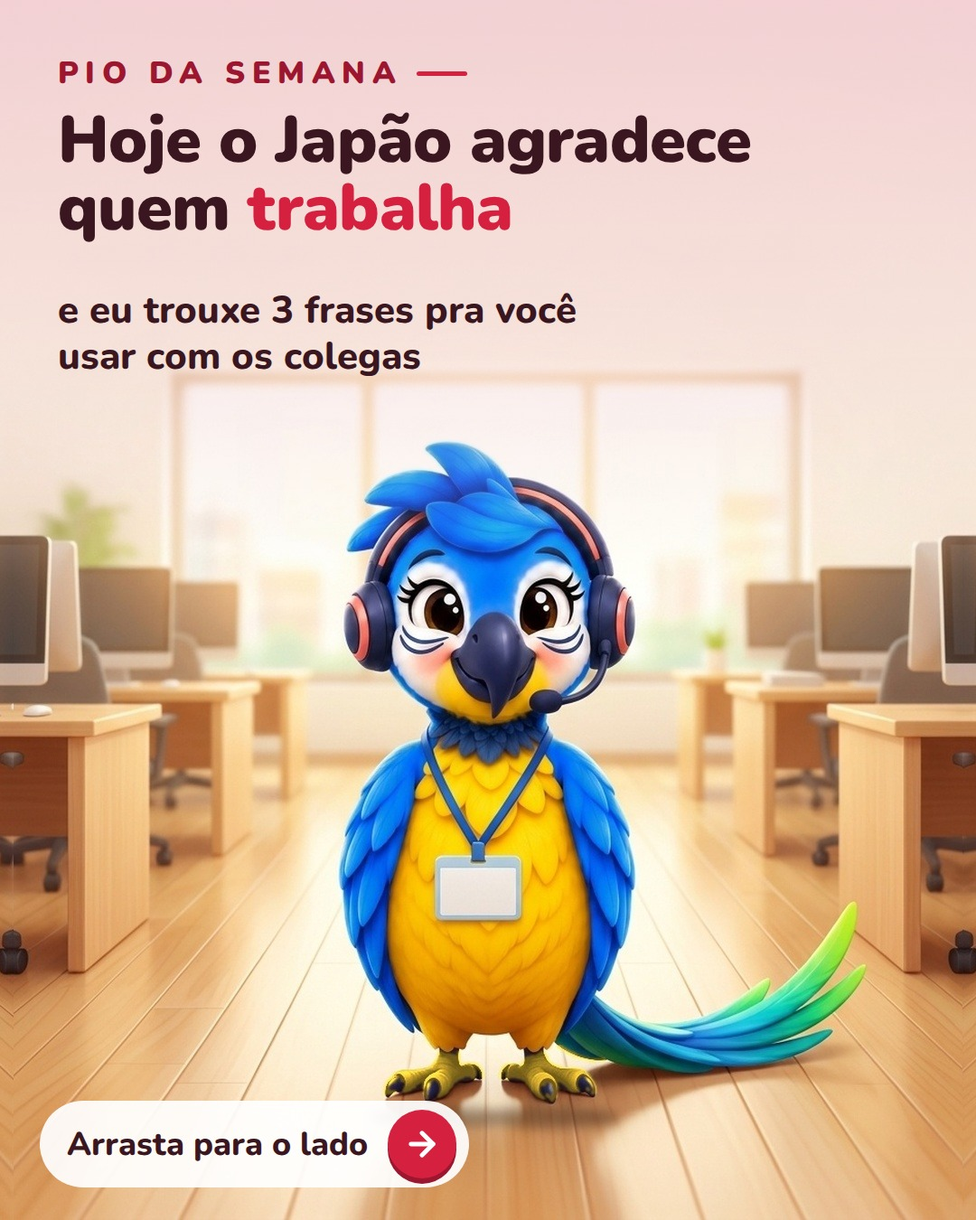
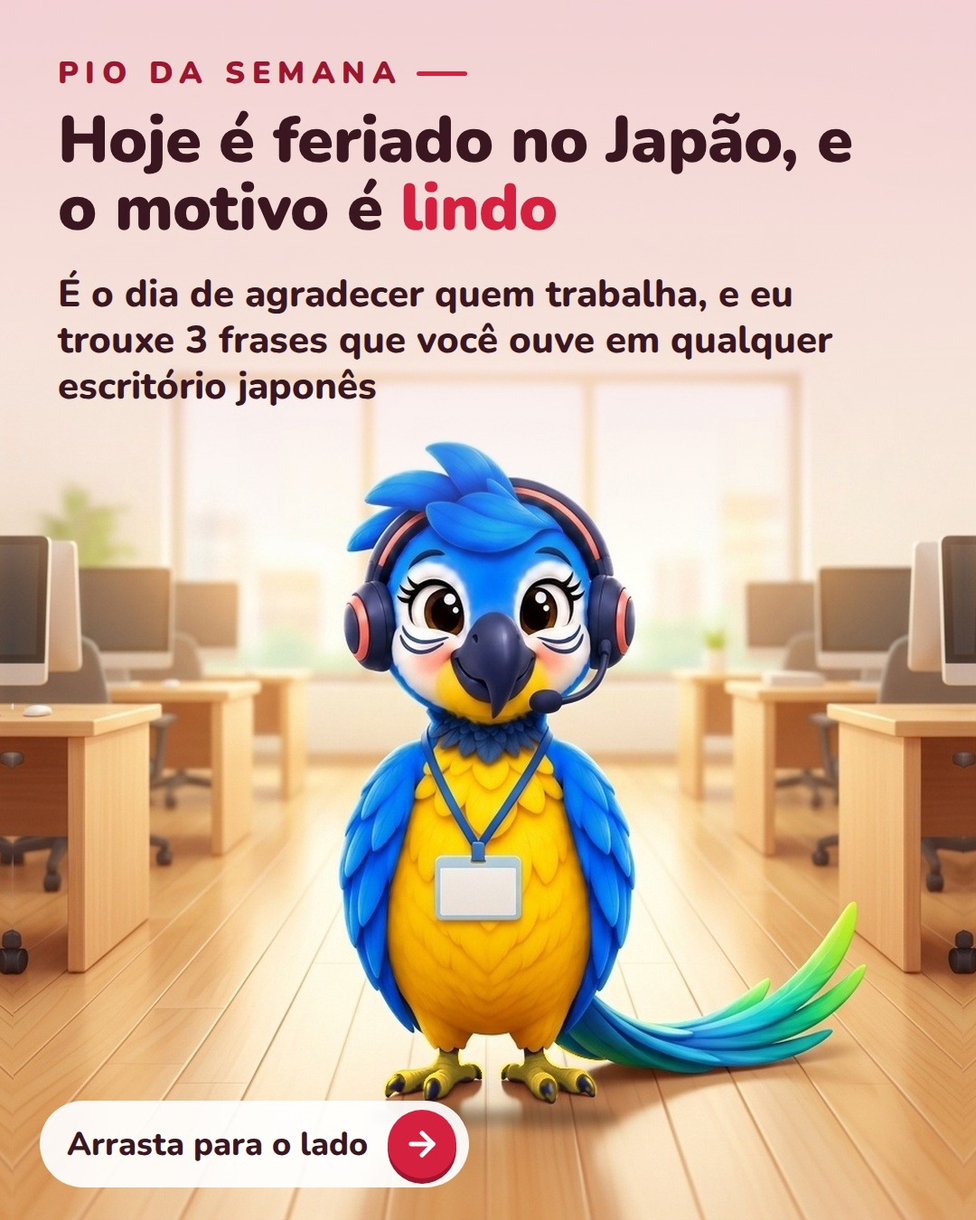
fix(arte): Pio da Semana japonês com texto coeso e balão ancorado na Rara

Changed region(s): [[0.0611, 0.2178, 0.8556, 0.3422], [0.0917, 0.0933, 0.8861, 0.1867]]

diff --git a/semana_23_29_feed/html/pio-japones-4.html b/semana_23_29_feed/html/pio-japones-4.html
@@ -14,11 +14,15 @@ h1{position:absolute;left:64px;top:118px;width:940px;font-weight:900;font-size:7
 .pill{position:absolute;left:44px;bottom:36px;z-index:6;display:flex;gap:22px;align-items:center;font-weight:800;font-size:36px;background:rgba(255,255,255,.92);padding:10px 14px 10px 30px;border-radius:999px;color:#3A1620}
 .btn{width:76px;height:76px;border-radius:50%;background:#D6203F;display:flex;align-items:center;justify-content:center;box-shadow:0 6px 0 #9C1630}
 .btn svg{width:42px;height:42px;stroke:#fff;fill:none;stroke-width:2.8;stroke-linecap:round;stroke-linejoin:round}
-.bal{position:absolute;left:64px;top:108px;width:900px;z-index:6;background:#fff;border-radius:44px;border-bottom:14px solid #F2C9D2;padding:18px 40px 20px;box-shadow:0 14px 30px rgba(120,40,60,.18)}
+.bal{position:absolute;left:90px;width:900px;z-index:6;background:transparent;padding:26px 56px 30px;filter:drop-shadow(0 16px 22px rgba(120,40,60,.22));--rad:58px 124px 66px 132px / 92px 58px 112px 62px}
+.bal.r0{transform:rotate(-1.6deg)}.bal.r1{transform:rotate(1.3deg)}
+.bal::before{content:'';position:absolute;inset:0;top:10px;border-radius:var(--rad);background:#F2C9D2;z-index:-2}
+.bal::after{content:'';position:absolute;inset:0;border-radius:var(--rad);background:#fff;z-index:-1}
+.tail{position:absolute;bottom:-88px;width:112px;height:100px;z-index:-1;overflow:visible}
 .row{display:block}
 .jp{font-family:'JP','Nunito';font-weight:900;font-size:70px;line-height:1.12;white-space:nowrap}
 .ro{font-weight:900;font-size:40px;line-height:1.1;color:#D6203F;white-space:nowrap}
 .tr{font-weight:900;font-size:44px;line-height:1.15;margin-top:2px}
 .ap{font-weight:700;font-size:40px;line-height:1.2;margin-top:6px;color:#6B3A48}
 .punch{position:absolute;left:64px;top:122px;width:940px;font-family:'Mochiy';font-size:64px;line-height:1.16;color:#9C1630;z-index:5;text-transform:uppercase}
-</style></head><body><div id="post"><img class="bg" src="file:///home/rodrigo/.openclaw/workspace/arara_social/semana_23_29_feed/gen/seg_s4_base.jpg"><div class="wash"></div><svg id="tl" style="position:absolute;left:0;top:0;z-index:7" width="1080" height="1350"><polygon id="pg" fill="#fff"/></svg><script>addEventListener("load",()=>document.fonts.ready.then(()=>{const b=document.querySelector(".bal");const r=b.getBoundingClientRect();const [tx,ty]=[495,492];const y=r.bottom-6;document.getElementById("pg").setAttribute("points",(tx-48)+","+y+" "+(tx+48)+","+y+" "+tx+","+ty)}))</script><div class="lbl">Pio da Semana</div><div class="bal" data-box="bal" style="top:100px"><div class="row"><div class="jp">お先に失礼します</div><div class="ro">osaki ni shitsurei shimasu</div></div><div class="tr">com licença, vou sair antes</div><div class="ap">pra sair do escritório sem parecer que fugiu hahaha</div></div></div></body></html>
+</style></head><body><div id="post"><img class="bg" src="file:///home/rodrigo/.openclaw/workspace/arara_social/semana_23_29_feed/gen/seg_s4_base.jpg"><div class="wash"></div><div class="lbl">Pio da Semana</div><div class="bal r0" data-box="bal"><div class="row"><div class="jp">お先に失礼します</div><div class="ro">osaki ni shitsurei shimasu</div></div><div class="tr">Com licença, vou sair antes</div><div class="ap">Pra sair sem parecer que fugiu, hahaha</div><svg class="tail" viewBox="0 0 112 100"><path d="M8 0 C 8 44 40 80 106 96 C 66 70 62 34 94 0 Z" fill="#fff"/></svg></div></div><script>addEventListener("load",()=>document.fonts.ready.then(()=>{const b=document.querySelector(".bal");const [hx,cy]=[495,502];const top0=112;const avail=(cy-136)-top0;let k=1;const base=[...b.querySelectorAll(".jp,.ro,.tr,.ap")].map(e=>[e,parseFloat(getComputedStyle(e).fontSize)]);function fit(){base.forEach(([e,f])=>e.style.fontSize=(f*k)+"px");b.style.top=((cy-136)-b.offsetHeight)+"px"}fit();while(b.offsetHeight>avail&&k>0.8){k-=0.04;fit()}const flip=0;const t=b.querySelector(".tail");const left=flip?(hx-70-90):(hx-216);t.style.left=Math.max(30,Math.min(700,left))+"px";if(flip)t.style.transform="scaleX(-1)"}))</script></body></html>

diff --git a/semana_23_29_feed/html/pio-japones-3.html b/semana_23_29_feed/html/pio-japones-3.html
@@ -14,11 +14,15 @@ h1{position:absolute;left:64px;top:118px;width:940px;font-weight:900;font-size:7
 .pill{position:absolute;left:44px;bottom:36px;z-index:6;display:flex;gap:22px;align-items:center;font-weight:800;font-size:36px;background:rgba(255,255,255,.92);padding:10px 14px 10px 30px;border-radius:999px;color:#3A1620}
 .btn{width:76px;height:76px;border-radius:50%;background:#D6203F;display:flex;align-items:center;justify-content:center;box-shadow:0 6px 0 #9C1630}
 .btn svg{width:42px;height:42px;stroke:#fff;fill:none;stroke-width:2.8;stroke-linecap:round;stroke-linejoin:round}
-.bal{position:absolute;left:64px;top:108px;width:900px;z-index:6;background:#fff;border-radius:44px;border-bottom:14px solid #F2C9D2;padding:18px 40px 20px;box-shadow:0 14px 30px rgba(120,40,60,.18)}
+.bal{position:absolute;left:90px;width:900px;z-index:6;background:transparent;padding:26px 56px 30px;filter:drop-shadow(0 16px 22px rgba(120,40,60,.22));--rad:58px 124px 66px 132px / 92px 58px 112px 62px}
+.bal.r0{transform:rotate(-1.6deg)}.bal.r1{transform:rotate(1.3deg)}
+.bal::before{content:'';position:absolute;inset:0;top:10px;border-radius:var(--rad);background:#F2C9D2;z-index:-2}
+.bal::after{content:'';position:absolute;inset:0;border-radius:var(--rad);background:#fff;z-index:-1}
+.tail{position:absolute;bottom:-88px;width:112px;height:100px;z-index:-1;overflow:visible}
 .row{display:block}
 .jp{font-family:'JP','Nunito';font-weight:900;font-size:70px;line-height:1.12;white-space:nowrap}
 .ro{font-weight:900;font-size:40px;line-height:1.1;color:#D6203F;white-space:nowrap}
 .tr{font-weight:900;font-size:44px;line-height:1.15;margin-top:2px}
 .ap{font-weight:700;font-size:40px;line-height:1.2;margin-top:6px;color:#6B3A48}
 .punch{position:absolute;left:64px;top:122px;width:940px;font-family:'Mochiy';font-size:64px;line-height:1.16;color:#9C1630;z-index:5;text-transform:uppercase}
-</style></head><body><div id="post"><img class="bg" src="file:///home/rodrigo/.openclaw/workspace/arara_social/semana_23_29_feed/gen/seg_s3_base.jpg"><div class="wash"></div><svg id="tl" style="position:absolute;left:0;top:0;z-index:7" width="1080" height="1350"><polygon id="pg" fill="#fff"/></svg><script>addEventListener("load",()=>document.fonts.ready.then(()=>{const b=document.querySelector(".bal");const r=b.getBoundingClientRect();const [tx,ty]=[490,485];const y=r.bottom-6;document.getElementById("pg").setAttribute("points",(tx-48)+","+y+" "+(tx+48)+","+y+" "+tx+","+ty)}))</script><div class="lbl">Pio da Semana</div><div class="bal" data-box="bal" style="top:100px"><div class="row"><div class="jp">よろしくお願いします</div><div class="ro">yoroshiku onegaishimasu</div></div><div class="tr">conto com você</div><div class="ap">a gente diz no começo de um projeto ou numa apresentação</div></div></div></body></html>
+</style></head><body><div id="post"><img class="bg" src="file:///home/rodrigo/.openclaw/workspace/arara_social/semana_23_29_feed/gen/seg_s3_base.jpg"><div class="wash"></div><div class="lbl">Pio da Semana</div><div class="bal r1" data-box="bal"><div class="row"><div class="jp">よろしくお願いします</div><div class="ro">yoroshiku onegaishimasu</div></div><div class="tr">Conto com você</div><div class="ap">A gente diz no começo de um projeto</div><svg class="tail" viewBox="0 0 112 100"><path d="M8 0 C 8 44 40 80 106 96 C 66 70 62 34 94 0 Z" fill="#fff"/></svg></div></div><script>addEventListener("load",()=>document.fonts.ready.then(()=>{const b=document.querySelector(".bal");const [hx,cy]=[490,495];const top0=112;const avail=(cy-136)-top0;let k=1;const base=[...b.querySelectorAll(".jp,.ro,.tr,.ap")].map(e=>[e,parseFloat(getComputedStyle(e).fontSize)]);function fit(){base.forEach(([e,f])=>e.style.fontSize=(f*k)+"px");b.style.top=((cy-136)-b.offsetHeight)+"px"}fit();while(b.offsetHeight>avail&&k>0.8){k-=0.04;fit()}const flip=1;const t=b.querySelector(".tail");const left=flip?(hx-70-90):(hx-216);t.style.left=Math.max(30,Math.min(700,left))+"px";if(flip)t.style.transform="scaleX(-1)"}))</script></body></html>

diff --git a/semana_23_29_feed/html/pio-japones-2.html b/semana_23_29_feed/html/pio-japones-2.html
@@ -14,11 +14,15 @@ h1{position:absolute;left:64px;top:118px;width:940px;font-weight:900;font-size:7
 .pill{position:absolute;left:44px;bottom:36px;z-index:6;display:flex;gap:22px;align-items:center;font-weight:800;font-size:36px;background:rgba(255,255,255,.92);padding:10px 14px 10px 30px;border-radius:999px;color:#3A1620}
 .btn{width:76px;height:76px;border-radius:50%;background:#D6203F;display:flex;align-items:center;justify-content:center;box-shadow:0 6px 0 #9C1630}
 .btn svg{width:42px;height:42px;stroke:#fff;fill:none;stroke-width:2.8;stroke-linecap:round;stroke-linejoin:round}
-.bal{position:absolute;left:64px;top:108px;width:900px;z-index:6;background:#fff;border-radius:44px;border-bottom:14px solid #F2C9D2;padding:18px 40px 20px;box-shadow:0 14px 30px rgba(120,40,60,.18)}
+.bal{position:absolute;left:90px;width:900px;z-index:6;background:transparent;padding:26px 56px 30px;filter:drop-shadow(0 16px 22px rgba(120,40,60,.22));--rad:58px 124px 66px 132px / 92px 58px 112px 62px}
+.bal.r0{transform:rotate(-1.6deg)}.bal.r1{transform:rotate(1.3deg)}
+.bal::before{content:'';position:absolute;inset:0;top:10px;border-radius:var(--rad);background:#F2C9D2;z-index:-2}
+.bal::after{content:'';position:absolute;inset:0;border-radius:var(--rad);background:#fff;z-index:-1}
+.tail{position:absolute;bottom:-88px;width:112px;height:100px;z-index:-1;overflow:visible}
 .row{display:block}
 .jp{font-family:'JP','Nunito';font-weight:900;font-size:70px;line-height:1.12;white-space:nowrap}
 .ro{font-weight:900;font-size:40px;line-height:1.1;color:#D6203F;white-space:nowrap}
 .tr{font-weight:900;font-size:44px;line-height:1.15;margin-top:2px}
 .ap{font-weight:700;font-size:40px;line-height:1.2;margin-top:6px;color:#6B3A48}
 .punch{position:absolute;left:64px;top:122px;width:940px;font-family:'Mochiy';font-size:64px;line-height:1.16;color:#9C1630;z-index:5;text-transform:uppercase}
-</style></head><body><div id="post"><img class="bg" src="file:///home/rodrigo/.openclaw/workspace/arara_social/semana_23_29_feed/gen/seg_s2_base.jpg"><div class="wash"></div><svg id="tl" style="position:absolute;left:0;top:0;z-index:7" width="1080" height="1350"><polygon id="pg" fill="#fff"/></svg><script>addEventListener("load",()=>document.fonts.ready.then(()=>{const b=document.querySelector(".bal");const r=b.getBoundingClientRect();const [tx,ty]=[368,489];const y=r.bottom-6;document.getElementById("pg").setAttribute("points",(tx-48)+","+y+" "+(tx+48)+","+y+" "+tx+","+ty)}))</script><div class="lbl">Pio da Semana</div><div class="bal" data-box="bal" style="top:100px"><div class="row"><div class="jp">お疲れ様です</div><div class="ro">otsukaresama desu</div></div><div class="tr">obrigado pelo seu esforço</div><div class="ap">serve pra cumprimentar colega e pra fechar o dia</div></div></div></body></html>
+</style></head><body><div id="post"><img class="bg" src="file:///home/rodrigo/.openclaw/workspace/arara_social/semana_23_29_feed/gen/seg_s2_base.jpg"><div class="wash"></div><div class="lbl">Pio da Semana</div><div class="bal r0" data-box="bal"><div class="row"><div class="jp">お疲れ様です</div><div class="ro">otsukaresama desu</div></div><div class="tr">Obrigado pelo seu esforço</div><div class="ap">Serve pra cumprimentar e pra fechar o dia</div><svg class="tail" viewBox="0 0 112 100"><path d="M8 0 C 8 44 40 80 106 96 C 66 70 62 34 94 0 Z" fill="#fff"/></svg></div></div><script>addEventListener("load",()=>document.fonts.ready.then(()=>{const b=document.querySelector(".bal");const [hx,cy]=[368,499];const top0=112;const avail=(cy-136)-top0;let k=1;const base=[...b.querySelectorAll(".jp,.ro,.tr,.ap")].map(e=>[e,parseFloat(getComputedStyle(e).fontSize)]);function fit(){base.forEach(([e,f])=>e.style.fontSize=(f*k)+"px");b.style.top=((cy-136)-b.offsetHeight)+"px"}fit();while(b.offsetHeight>avail&&k>0.8){k-=0.04;fit()}const flip=0;const t=b.querySelector(".tail");const left=flip?(hx-70-90):(hx-216);t.style.left=Math.max(30,Math.min(700,left))+"px";if(flip)t.style.transform="scaleX(-1)"}))</script></body></html>

diff --git a/semana_23_29_feed/html/pio-japones-1.html b/semana_23_29_feed/html/pio-japones-1.html
@@ -14,11 +14,15 @@ h1{position:absolute;left:64px;top:118px;width:940px;font-weight:900;font-size:7
 .pill{position:absolute;left:44px;bottom:36px;z-index:6;display:flex;gap:22px;align-items:center;font-weight:800;font-size:36px;background:rgba(255,255,255,.92);padding:10px 14px 10px 30px;border-radius:999px;color:#3A1620}
 .btn{width:76px;height:76px;border-radius:50%;background:#D6203F;display:flex;align-items:center;justify-content:center;box-shadow:0 6px 0 #9C1630}
 .btn svg{width:42px;height:42px;stroke:#fff;fill:none;stroke-width:2.8;stroke-linecap:round;stroke-linejoin:round}
-.bal{position:absolute;left:64px;top:108px;width:900px;z-index:6;background:#fff;border-radius:44px;border-bottom:14px solid #F2C9D2;padding:18px 40px 20px;box-shadow:0 14px 30px rgba(120,40,60,.18)}
+.bal{position:absolute;left:90px;width:900px;z-index:6;background:transparent;padding:26px 56px 30px;filter:drop-shadow(0 16px 22px rgba(120,40,60,.22));--rad:58px 124px 66px 132px / 92px 58px 112px 62px}
+.bal.r0{transform:rotate(-1.6deg)}.bal.r1{transform:rotate(1.3deg)}
+.bal::before{content:'';position:absolute;inset:0;top:10px;border-radius:var(--rad);background:#F2C9D2;z-index:-2}
+.bal::after{content:'';position:absolute;inset:0;border-radius:var(--rad);background:#fff;z-index:-1}
+.tail{position:absolute;bottom:-88px;width:112px;height:100px;z-index:-1;overflow:visible}
 .row{display:block}
 .jp{font-family:'JP','Nunito';font-weight:900;font-size:70px;line-height:1.12;white-space:nowrap}
 .ro{font-weight:900;font-size:40px;line-height:1.1;color:#D6203F;white-space:nowrap}
 .tr{font-weight:900;font-size:44px;line-height:1.15;margin-top:2px}
 .ap{font-weight:700;font-size:40px;line-height:1.2;margin-top:6px;color:#6B3A48}
 .punch{position:absolute;left:64px;top:122px;width:940px;font-family:'Mochiy';font-size:64px;line-height:1.16;color:#9C1630;z-index:5;text-transform:uppercase}
-</style></head><body><div id="post"><img class="bg" src="file:///home/rodrigo/.openclaw/workspace/arara_social/semana_23_29_feed/gen/seg_s1_base.jpg"><div class="wash"></div><div class="lbl">Pio da Semana</div><h1>Hoje o Japão agradece quem <span class="hl">trabalha</span></h1><div class="sub" data-box="sub" style="top:318px;width:900px">e eu trouxe 3 frases pra você<br>usar com os colegas</div><div class="pill">Arrasta para o lado<div class="btn"><svg viewBox="0 0 24 24"><path d="M5 12h14"/><path d="m12 5 7 7-7 7"/></svg></div></div></div></body></html>
+</style></head><body><div id="post"><img class="bg" src="file:///home/rodrigo/.openclaw/workspace/arara_social/semana_23_29_feed/gen/seg_s1_base.jpg"><div class="wash"></div><div class="lbl">Pio da Semana</div><h1>Hoje é feriado no Japão, e o motivo é <span class="hl">lindo</span></h1><div class="sub" data-box="sub" style="top:300px;width:940px">É o dia de agradecer quem trabalha, e eu trouxe 3 frases que você ouve em qualquer escritório japonês</div><div class="pill">Arrasta para o lado<div class="btn"><svg viewBox="0 0 24 24"><path d="M5 12h14"/><path d="m12 5 7 7-7 7"/></svg></div></div></div></body></html>

diff --git a/semana_23_29_feed/html/pio-japones-5.html b/semana_23_29_feed/html/pio-japones-5.html
@@ -14,11 +14,15 @@ h1{position:absolute;left:64px;top:118px;width:940px;font-weight:900;font-size:7
 .pill{position:absolute;left:44px;bottom:36px;z-index:6;display:flex;gap:22px;align-items:center;font-weight:800;font-size:36px;background:rgba(255,255,255,.92);padding:10px 14px 10px 30px;border-radius:999px;color:#3A1620}
 .btn{width:76px;height:76px;border-radius:50%;background:#D6203F;display:flex;align-items:center;justify-content:center;box-shadow:0 6px 0 #9C1630}
 .btn svg{width:42px;height:42px;stroke:#fff;fill:none;stroke-width:2.8;stroke-linecap:round;stroke-linejoin:round}
-.bal{position:absolute;left:64px;top:108px;width:900px;z-index:6;background:#fff;border-radius:44px;border-bottom:14px solid #F2C9D2;padding:18px 40px 20px;box-shadow:0 14px 30px rgba(120,40,60,.18)}
+.bal{position:absolute;left:90px;width:900px;z-index:6;background:transparent;padding:26px 56px 30px;filter:drop-shadow(0 16px 22px rgba(120,40,60,.22));--rad:58px 124px 66px 132px / 92px 58px 112px 62px}
+.bal.r0{transform:rotate(-1.6deg)}.bal.r1{transform:rotate(1.3deg)}
+.bal::before{content:'';position:absolute;inset:0;top:10px;border-radius:var(--rad);background:#F2C9D2;z-index:-2}
+.bal::after{content:'';position:absolute;inset:0;border-radius:var(--rad);background:#fff;z-index:-1}
+.tail{position:absolute;bottom:-88px;width:112px;height:100px;z-index:-1;overflow:visible}
 .row{display:block}
 .jp{font-family:'JP','Nunito';font-weight:900;font-size:70px;line-height:1.12;white-space:nowrap}
 .ro{font-weight:900;font-size:40px;line-height:1.1;color:#D6203F;white-space:nowrap}
 .tr{font-weight:900;font-size:44px;line-height:1.15;margin-top:2px}
 .ap{font-weight:700;font-size:40px;line-height:1.2;margin-top:6px;color:#6B3A48}
 .punch{position:absolute;left:64px;top:122px;width:940px;font-family:'Mochiy';font-size:64px;line-height:1.16;color:#9C1630;z-index:5;text-transform:uppercase}
-</style></head><body><div id="post"><img class="bg" src="file:///home/rodrigo/.openclaw/workspace/arara_social/semana_23_29_feed/gen/seg_s5_base.jpg"><div class="wash"></div><div class="lbl">Pio da Semana</div><div class="punch" data-box="punch">Salva pra usar no <span style="color:#D6203F">primeiro dia</span> de trabalho</div><div class="sub" data-box="sub" style="top:360px;width:900px">e manda pro colega que sonha com o Japão</div></div></body></html>
+</style></head><body><div id="post"><img class="bg" src="file:///home/rodrigo/.openclaw/workspace/arara_social/semana_23_29_feed/gen/seg_s5_base.jpg"><div class="wash"></div><div class="lbl">Pio da Semana</div><div class="punch" data-box="punch">Salva pra usar no seu <span style="color:#D6203F">primeiro dia</span> de trabalho</div><div class="sub" data-box="sub" style="top:360px;width:900px">e manda pro colega que sonha em conhecer o Japão</div></div></body></html>

diff --git a/semana_23_29_feed/html/build_seg.py b/semana_23_29_feed/html/build_seg.py
@@ -19,7 +19,11 @@ h1{{position:absolute;left:64px;top:118px;width:940px;font-weight:900;font-size:
 .pill{{position:absolute;left:44px;bottom:36px;z-index:6;display:flex;gap:22px;align-items:center;font-weight:800;font-size:36px;background:rgba(255,255,255,.92);padding:10px 14px 10px 30px;border-radius:999px;color:#3A1620}}
 .btn{{width:76px;height:76px;border-radius:50%;background:#D6203F;display:flex;align-items:center;justify-content:center;box-shadow:0 6px 0 #9C1630}}
 .btn svg{{width:42px;height:42px;stroke:#fff;fill:none;stroke-width:2.8;stroke-linecap:round;stroke-linejoin:round}}
-.bal{{position:absolute;left:64px;top:108px;width:900px;z-index:6;background:#fff;border-radius:44px;border-bottom:14px solid #F2C9D2;padding:18px 40px 20px;box-shadow:0 14px 30px rgba(120,40,60,.18)}}
+.bal{{position:absolute;left:90px;width:900px;z-index:6;background:transparent;padding:26px 56px 30px;filter:drop-shadow(0 16px 22px rgba(120,40,60,.22));--rad:58px 124px 66px 132px / 92px 58px 112px 62px}}
+.bal.r0{{transform:rotate(-1.6deg)}}.bal.r1{{transform:rotate(1.3deg)}}
+.bal::before{{content:'';position:absolute;inset:0;top:10px;border-radius:var(--rad);background:#F2C9D2;z-index:-2}}
+.bal::after{{content:'';position:absolute;inset:0;border-radius:var(--rad);background:#fff;z-index:-1}}
+.tail{{position:absolute;bottom:-88px;width:112px;height:100px;z-index:-1;overflow:visible}}
 .row{{display:block}}
 .jp{{font-family:'JP','Nunito';font-weight:900;font-size:70px;line-height:1.12;white-space:nowrap}}
 .ro{{font-weight:900;font-size:40px;line-height:1.1;color:#D6203F;white-space:nowrap}}
@@ -28,21 +32,22 @@ h1{{position:absolute;left:64px;top:118px;width:940px;font-weight:900;font-size:
 .punch{{position:absolute;left:64px;top:122px;width:940px;font-family:'Mochiy';font-size:64px;line-height:1.16;color:#9C1630;z-index:5;text-transform:uppercase}}
 """
 ARR='<svg viewBox="0 0 24 24"><path d="M5 12h14"/><path d="m12 5 7 7-7 7"/></svg>'
-def page(body, bg, tail=None):
-    t=''
-    if tail: t='<svg id="tl" style="position:absolute;left:0;top:0;z-index:7" width="1080" height="1350"><polygon id="pg" fill="#fff"/></svg><script>addEventListener("load",()=>document.fonts.ready.then(()=>{const b=document.querySelector(".bal");const r=b.getBoundingClientRect();const [tx,ty]=%s;const y=r.bottom-6;document.getElementById("pg").setAttribute("points",(tx-48)+","+y+" "+(tx+48)+","+y+" "+tx+","+ty)}))</script>' % tail
-    return f'<!doctype html><html><head><meta charset="utf-8"><style>{CSS}</style></head><body><div id="post"><img class="bg" src="file://{G}{bg}"><div class="wash"></div>{t}{body}</div></body></html>'
+def page(body, bg, tail=None, idx=0):
+    sc=''
+    if tail:
+        sc='<script>addEventListener("load",()=>document.fonts.ready.then(()=>{const b=document.querySelector(".bal");const [hx,cy]=%s;const top0=112;const avail=(cy-136)-top0;let k=1;const base=[...b.querySelectorAll(".jp,.ro,.tr,.ap")].map(e=>[e,parseFloat(getComputedStyle(e).fontSize)]);function fit(){base.forEach(([e,f])=>e.style.fontSize=(f*k)+"px");b.style.top=((cy-136)-b.offsetHeight)+"px"}fit();while(b.offsetHeight>avail&&k>0.8){k-=0.04;fit()}const flip=%d;const t=b.querySelector(".tail");const left=flip?(hx-70-90):(hx-216);t.style.left=Math.max(30,Math.min(700,left))+"px";if(flip)t.style.transform="scaleX(-1)"}))</script>' % (tail, idx%2)
+    return f'<!doctype html><html><head><meta charset="utf-8"><style>{CSS}</style></head><body><div id="post"><img class="bg" src="file://{G}{bg}"><div class="wash"></div>{body}</div>{sc}</body></html>'
 slides=[]
 slides.append(('pio-japones-1','seg_s1_base.jpg',None,
- '<div class="lbl">Pio da Semana</div><h1>Hoje o Japão agradece quem <span class="hl">trabalha</span></h1><div class="sub" data-box="sub" style="top:318px;width:900px">e eu trouxe 3 frases pra você<br>usar com os colegas</div><div class="pill">Arrasta para o lado<div class="btn">'+ARR+'</div></div>'))
+ '<div class="lbl">Pio da Semana</div><h1>Hoje é feriado no Japão, e o motivo é <span class="hl">lindo</span></h1><div class="sub" data-box="sub" style="top:300px;width:940px">É o dia de agradecer quem trabalha, e eu trouxe 3 frases que você ouve em qualquer escritório japonês</div><div class="pill">Arrasta para o lado<div class="btn">'+ARR+'</div></div>'))
 def phrase(n,bg,jp,ro,tr,ap,tipx):
-    bal=f'<div class="lbl">Pio da Semana</div><div class="bal" data-box="bal" style="top:100px"><div class="row"><div class="jp">{jp}</div><div class="ro">{ro}</div></div><div class="tr">{tr}</div><div class="ap">{ap}</div></div>'
+    bal=f'<div class="lbl">Pio da Semana</div><div class="bal r{n%2}" data-box="bal"><div class="row"><div class="jp">{jp}</div><div class="ro">{ro}</div></div><div class="tr">{tr}</div><div class="ap">{ap}</div><svg class="tail" viewBox="0 0 112 100"><path d="M8 0 C 8 44 40 80 106 96 C 66 70 62 34 94 0 Z" fill="#fff"/></svg></div>'
     return (f'pio-japones-{n}',bg,tipx,bal)
-slides.append(phrase(2,'seg_s2_base.jpg','お疲れ様です','otsukaresama desu','obrigado pelo seu esforço','serve pra cumprimentar colega e pra fechar o dia',None))
-slides.append(phrase(3,'seg_s3_base.jpg','よろしくお願いします','yoroshiku onegaishimasu','conto com você','a gente diz no começo de um projeto ou numa apresentação',None))
-slides.append(phrase(4,'seg_s4_base.jpg','お先に失礼します','osaki ni shitsurei shimasu','com licença, vou sair antes','pra sair do escritório sem parecer que fugiu hahaha',None))
+slides.append(phrase(2,'seg_s2_base.jpg','お疲れ様です','otsukaresama desu','Obrigado pelo seu esforço','Serve pra cumprimentar e pra fechar o dia',None))
+slides.append(phrase(3,'seg_s3_base.jpg','よろしくお願いします','yoroshiku onegaishimasu','Conto com você','A gente diz no começo de um projeto',None))
+slides.append(phrase(4,'seg_s4_base.jpg','お先に失礼します','osaki ni shitsurei shimasu','Com licença, vou sair antes','Pra sair sem parecer que fugiu, hahaha',None))
 slides.append(('pio-japones-5','seg_s5_base.jpg',None,
- '<div class="lbl">Pio da Semana</div><div class="punch" data-box="punch">Salva pra usar no <span style="color:#D6203F">primeiro dia</span> de trabalho</div><div class="sub" data-box="sub" style="top:360px;width:900px">e manda pro colega que sonha com o Japão</div>'))
+ '<div class="lbl">Pio da Semana</div><div class="punch" data-box="punch">Salva pra usar no seu <span style="color:#D6203F">primeiro dia</span> de trabalho</div><div class="sub" data-box="sub" style="top:360px;width:900px">e manda pro colega que sonha em conhecer o Japão</div>'))
 import sys
 import numpy as np
 from PIL import Image
@@ -60,7 +65,7 @@ for k,bg,_,body in slides:
     tail=None
     if n in tips:
         tx,ty=tips[n]
-        tail=f'[{tx},{ty}]'
-    open(H+k+'.html','w').write(page(body,bg,tail))
+        tail=f'[{tx},{ty+10}]'
+    open(H+k+'.html','w').write(page(body,bg,tail,n))
     r=subprocess.run(['node',H+'render_a.mjs',H+k+'.html',O+k+'.jpg','1080','1350'],capture_output=True,text=True)
     print(k,r.stdout.strip(),r.stderr.strip()[:200])

diff --git a/semana_23_29_feed/html/build_seg_v1_backup.py b/semana_23_29_feed/html/build_seg_v1_backup.py
@@ -1,0 +1,66 @@
+import subprocess, json
+F='/home/rodrigo/.openclaw/workspace/arara_social/semana1/_fontes/'
+G='/home/rodrigo/.openclaw/workspace/arara_social/semana_23_29_feed/gen/'
+H='/home/rodrigo/.openclaw/workspace/arara_social/semana_23_29_feed/html/'
+O='/home/rodrigo/.openclaw/workspace/arara_social/semana_23_29_feed/final/'
+CSS=f"""
+@font-face{{font-family:'Nunito';src:url('file://{F}Nunito.ttf');font-weight:200 1000}}
+@font-face{{font-family:'Mochiy';src:url('file://{F}MochiyPopOne-Regular.ttf')}}
+@font-face{{font-family:'JP';src:url('file://{F}NotoSansJP.ttf');font-weight:100 900}}
+*{{box-sizing:border-box;margin:0;padding:0}} body{{background:#000}}
+#post{{position:relative;width:1080px;height:1350px;overflow:hidden;font-family:'Nunito';color:#3A1620}}
+.bg{{position:absolute;inset:0;width:1080px;height:1350px}}
+.wash{{position:absolute;left:0;top:0;width:1080px;height:640px;background:linear-gradient(180deg,rgba(242,201,210,.78),rgba(242,201,210,.35) 62%,rgba(242,201,210,0))}}
+.lbl{{position:absolute;left:64px;top:58px;display:flex;align-items:center;gap:16px;font-weight:900;font-size:34px;letter-spacing:.22em;text-transform:uppercase;color:#9C1630;z-index:5}}
+.lbl::after{{content:'';width:56px;height:5px;border-radius:3px;background:#D6203F}}
+h1{{position:absolute;left:64px;top:118px;width:940px;font-weight:900;font-size:72px;line-height:1.04;letter-spacing:-.01em;z-index:5}}
+.hl{{color:#D6203F}}
+.sub{{position:absolute;left:64px;font-weight:800;font-size:42px;line-height:1.22;z-index:5;color:#3A1620}}
+.pill{{position:absolute;left:44px;bottom:36px;z-index:6;display:flex;gap:22px;align-items:center;font-weight:800;font-size:36px;background:rgba(255,255,255,.92);padding:10px 14px 10px 30px;border-radius:999px;color:#3A1620}}
+.btn{{width:76px;height:76px;border-radius:50%;background:#D6203F;display:flex;align-items:center;justify-content:center;box-shadow:0 6px 0 #9C1630}}
+.btn svg{{width:42px;height:42px;stroke:#fff;fill:none;stroke-width:2.8;stroke-linecap:round;stroke-linejoin:round}}
+.bal{{position:absolute;left:64px;top:108px;width:900px;z-index:6;background:#fff;border-radius:44px;border-bottom:14px solid #F2C9D2;padding:18px 40px 20px;box-shadow:0 14px 30px rgba(120,40,60,.18)}}
+.row{{display:block}}
+.jp{{font-family:'JP','Nunito';font-weight:900;font-size:70px;line-height:1.12;white-space:nowrap}}
+.ro{{font-weight:900;font-size:40px;line-height:1.1;color:#D6203F;white-space:nowrap}}
+.tr{{font-weight:900;font-size:44px;line-height:1.15;margin-top:2px}}
+.ap{{font-weight:700;font-size:40px;line-height:1.2;margin-top:6px;color:#6B3A48}}
+.punch{{position:absolute;left:64px;top:122px;width:940px;font-family:'Mochiy';font-size:64px;line-height:1.16;color:#9C1630;z-index:5;text-transform:uppercase}}
+"""
+ARR='<svg viewBox="0 0 24 24"><path d="M5 12h14"/><path d="m12 5 7 7-7 7"/></svg>'
+def page(body, bg, tail=None):
+    t=''
+    if tail: t='<svg id="tl" style="position:absolute;left:0;top:0;z-index:7" width="1080" height="1350"><polygon id="pg" fill="#fff"/></svg><script>addEventListener("load",()=>document.fonts.ready.then(()=>{const b=document.querySelector(".bal");const r=b.getBoundingClientRect();const [tx,ty]=%s;const y=r.bottom-6;document.getElementById("pg").setAttribute("points",(tx-48)+","+y+" "+(tx+48)+","+y+" "+tx+","+ty)}))</script>' % tail
+    return f'<!doctype html><html><head><meta charset="utf-8"><style>{CSS}</style></head><body><div id="post"><img class="bg" src="file://{G}{bg}"><div class="wash"></div>{t}{body}</div></body></html>'
+slides=[]
+slides.append(('pio-japones-1','seg_s1_base.jpg',None,
+ '<div class="lbl">Pio da Semana</div><h1>Hoje o Japão agradece quem <span class="hl">trabalha</span></h1><div class="sub" data-box="sub" style="top:318px;width:900px">e eu trouxe 3 frases pra você<br>usar com os colegas</div><div class="pill">Arrasta para o lado<div class="btn">'+ARR+'</div></div>'))
+def phrase(n,bg,jp,ro,tr,ap,tipx):
+    bal=f'<div class="lbl">Pio da Semana</div><div class="bal" data-box="bal" style="top:100px"><div class="row"><div class="jp">{jp}</div><div class="ro">{ro}</div></div><div class="tr">{tr}</div><div class="ap">{ap}</div></div>'
+    return (f'pio-japones-{n}',bg,tipx,bal)
+slides.append(phrase(2,'seg_s2_base.jpg','お疲れ様です','otsukaresama desu','obrigado pelo seu esforço','serve pra cumprimentar colega e pra fechar o dia',None))
+slides.append(phrase(3,'seg_s3_base.jpg','よろしくお願いします','yoroshiku onegaishimasu','conto com você','a gente diz no começo de um projeto ou numa apresentação',None))
+slides.append(phrase(4,'seg_s4_base.jpg','お先に失礼します','osaki ni shitsurei shimasu','com licença, vou sair antes','pra sair do escritório sem parecer que fugiu hahaha',None))
+slides.append(('pio-japones-5','seg_s5_base.jpg',None,
+ '<div class="lbl">Pio da Semana</div><div class="punch" data-box="punch">Salva pra usar no <span style="color:#D6203F">primeiro dia</span> de trabalho</div><div class="sub" data-box="sub" style="top:360px;width:900px">e manda pro colega que sonha com o Japão</div>'))
+import sys
+import numpy as np
+from PIL import Image
+def crest(bg):
+    a=np.array(Image.open(G+bg).convert('RGB')).astype(int)
+    m=(a[...,2]>170)&(a[...,0]<70)&(a[...,1]<140)
+    ys,xs=np.where(m[:700])
+    y=ys.min(); x=int(np.median(xs[ys<y+6]))
+    return x,y
+tips={}
+for n in (2,3,4):
+    x,y=crest(f'seg_s{n}_base.jpg'); tips[n]=(x,y-10); print('crest',n,x,y)
+for k,bg,_,body in slides:
+    n=int(k.split('-')[-1])
+    tail=None
+    if n in tips:
+        tx,ty=tips[n]
+        tail=f'[{tx},{ty}]'
+    open(H+k+'.html','w').write(page(body,bg,tail))
+    r=subprocess.run(['node',H+'render_a.mjs',H+k+'.html',O+k+'.jpg','1080','1350'],capture_output=True,text=True)
+    print(k,r.stdout.strip(),r.stderr.strip()[:200])
